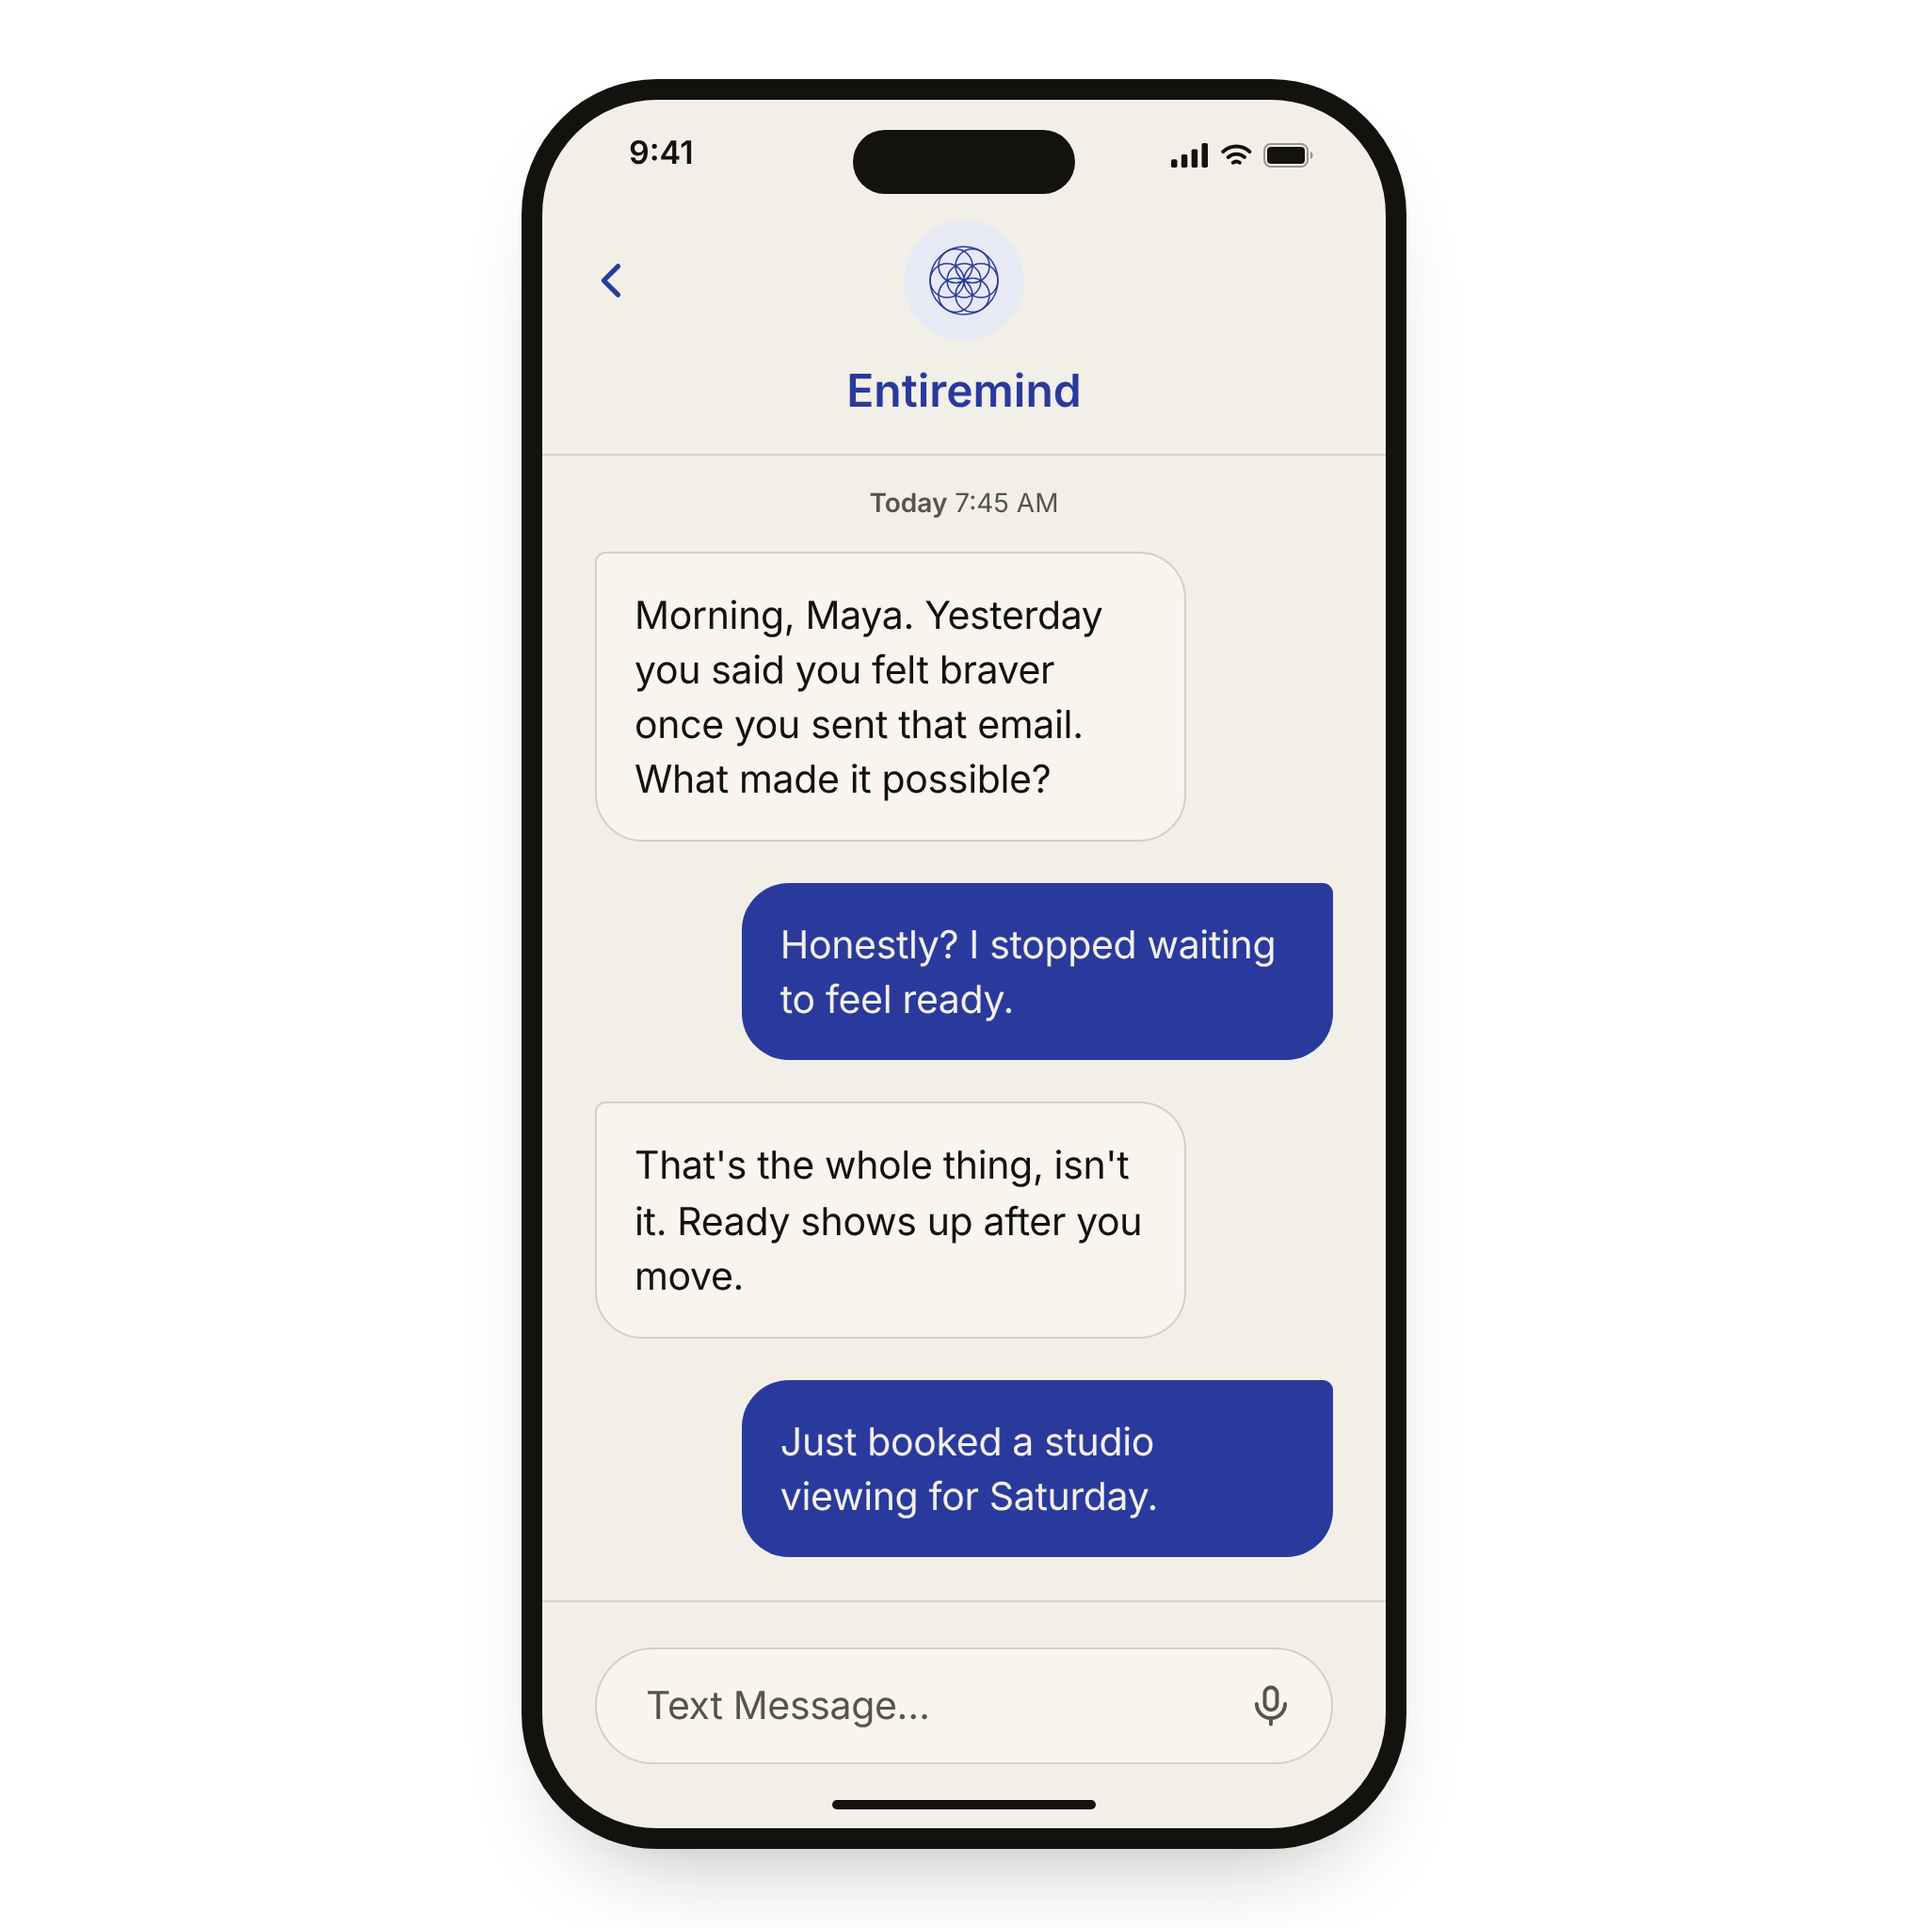
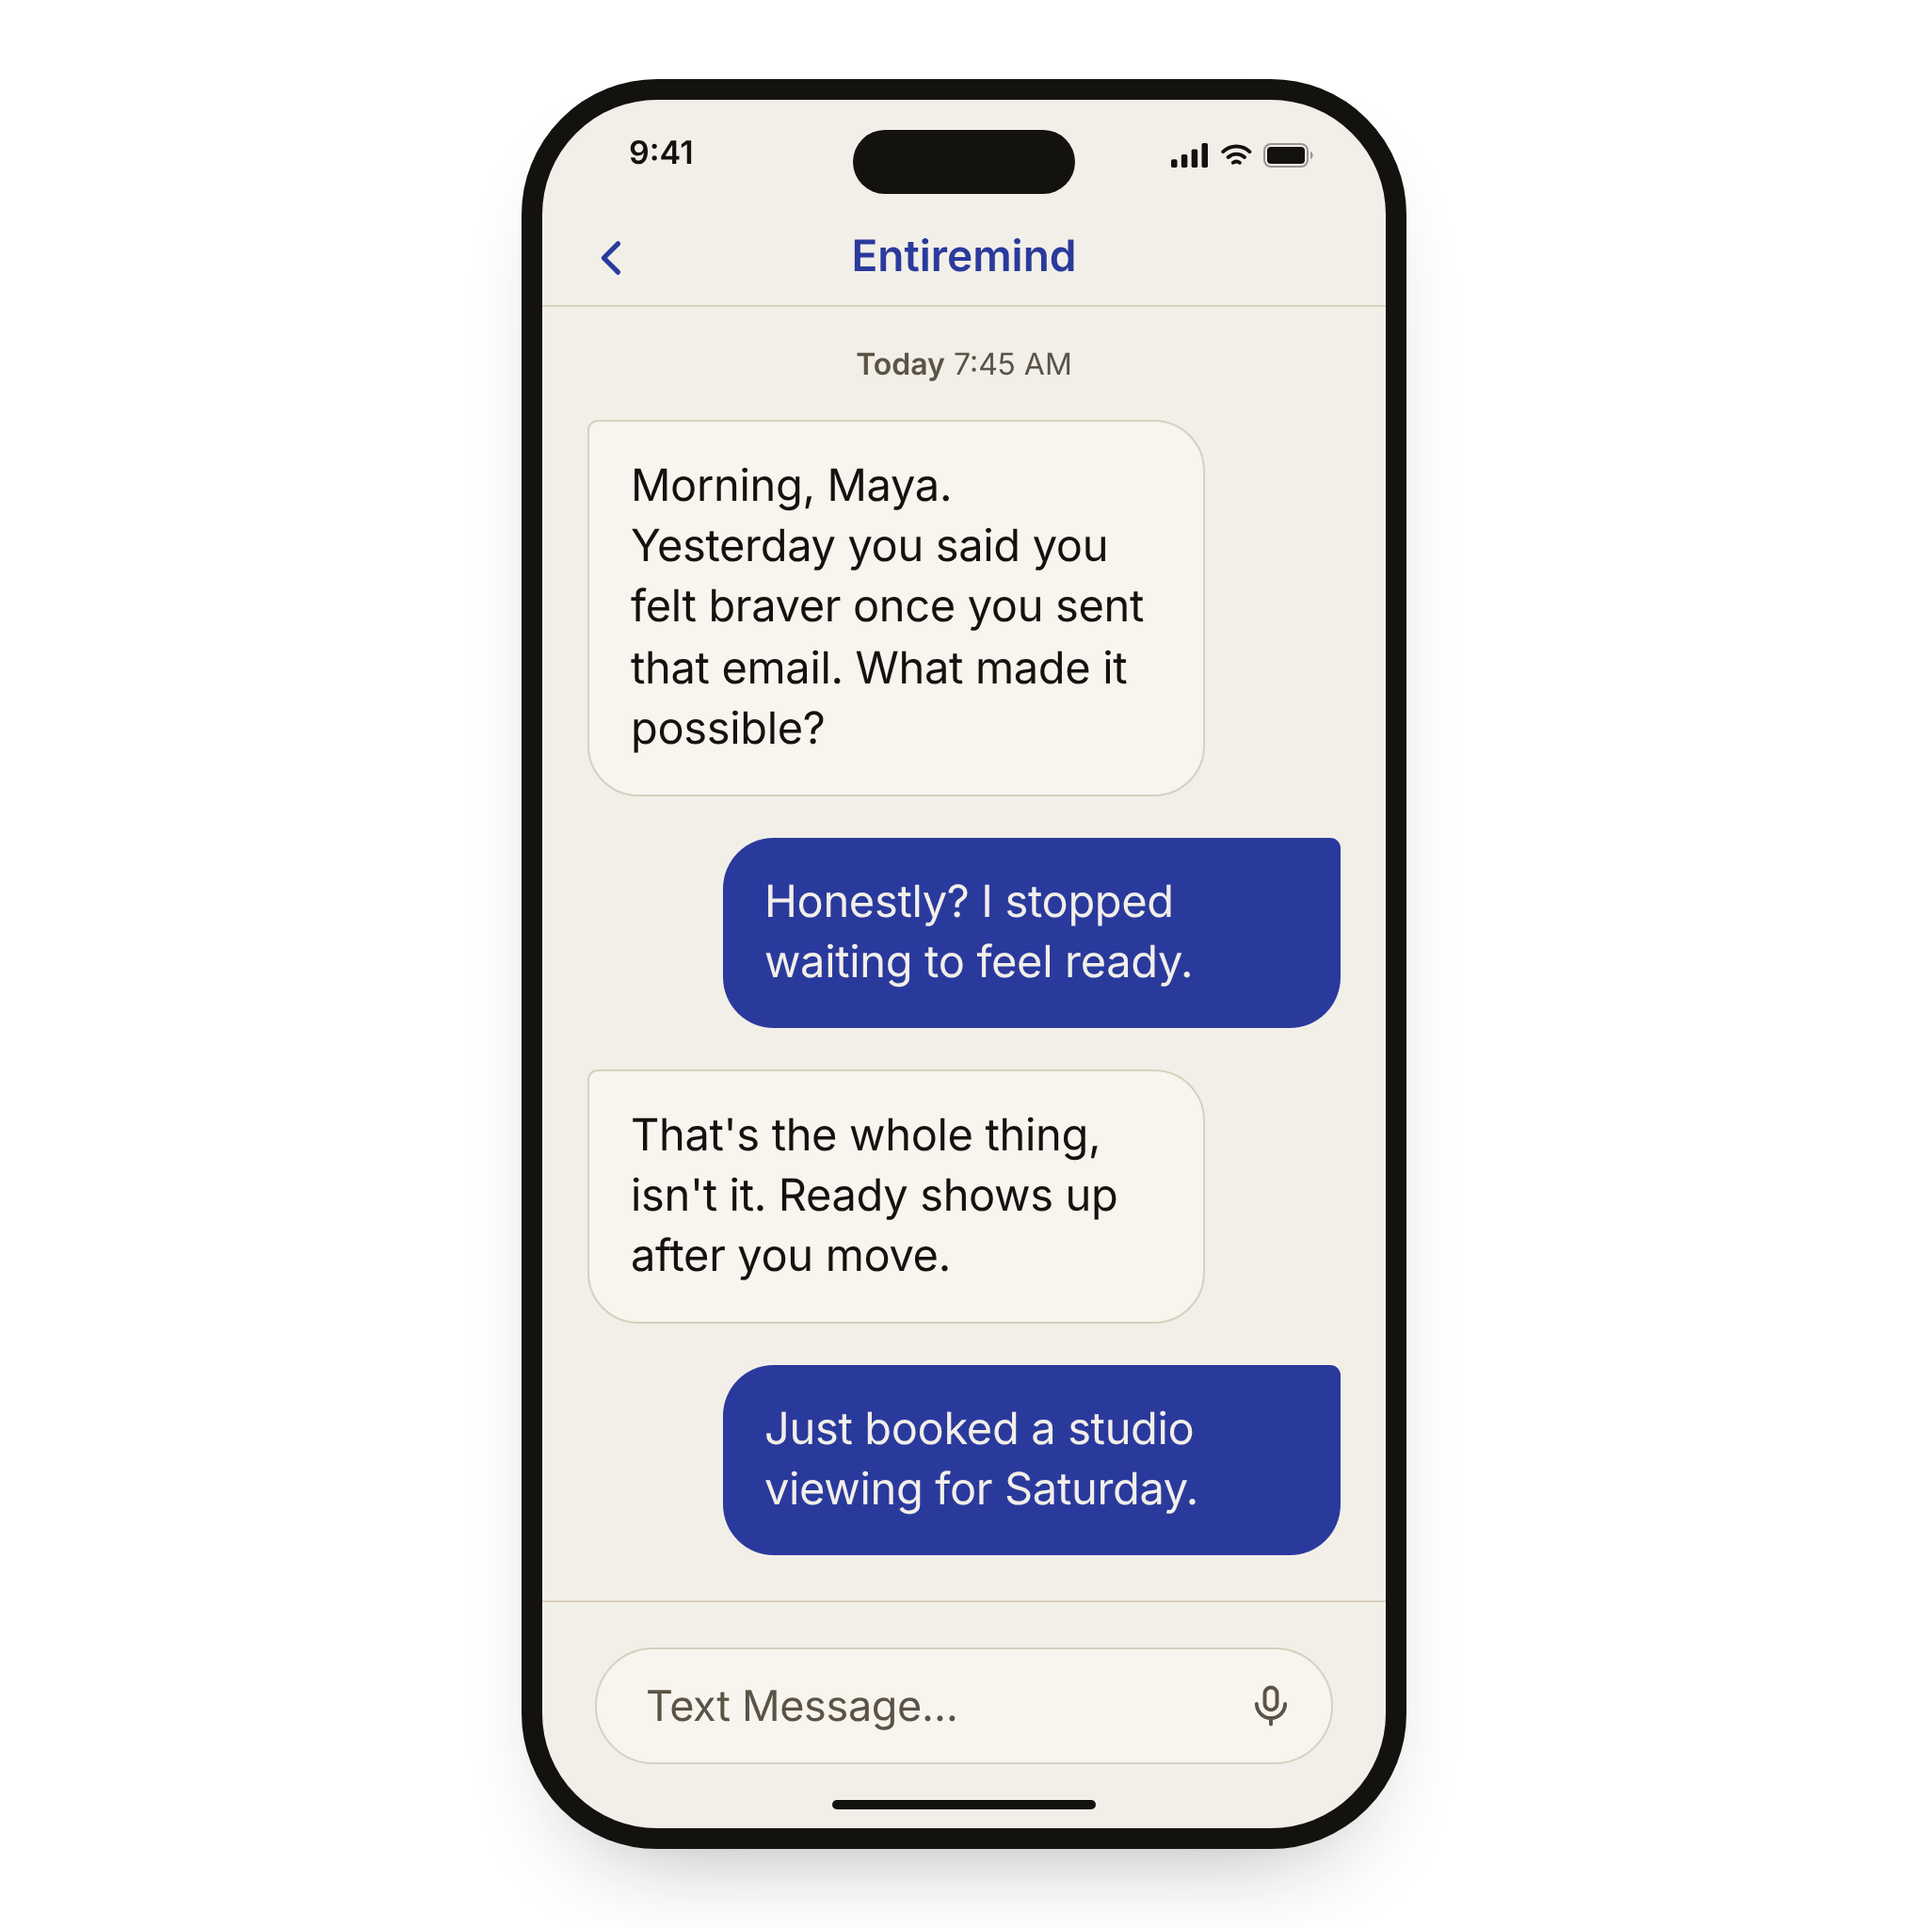
SmsPhone: compact one-line header, larger messages
Drops the Seed of Life avatar so the contact header is a single line
(back chevron and the name in cobalt). The freed height goes to the
conversation: bubbles 20.5u to 23.5u, the day label and composer text
up to match, and the last message now ends an even 24u above the
composer. The scatter tag moves up to clear the back chevron. Scenes
are re-rendered.

Claude-Session: https://claude.ai/code/session_01XFR3k6ZrktobPacJJyLqAi

diff --git a/src/components/landing/sms-phone.module.css b/src/components/landing/sms-phone.module.css
@@ -84,43 +84,29 @@
 
 /* ---- Contact header -------------------------------------------------- */
 
+/* One compact line, so the screen goes to the conversation. */
 .header {
   position: relative;
   flex: none;
   display: flex;
-  flex-direction: column;
   align-items: center;
-  padding: calc(var(--u) * 6) 0 calc(var(--u) * 14);
+  justify-content: center;
+  height: calc(var(--u) * 52);
   border-bottom: calc(var(--u) * 1) solid var(--color-rule);
 }
 
 .back {
   position: absolute;
   left: calc(var(--u) * 24);
-  top: calc(var(--u) * 25);
+  top: 50%;
   width: calc(var(--u) * 26);
   height: calc(var(--u) * 26);
+  margin-top: calc(var(--u) * -13);
   color: var(--color-cobalt);
-}
-
-.avatar {
-  width: calc(var(--u) * 64);
-  height: calc(var(--u) * 64);
-  border-radius: 50%;
-  background: var(--color-cobalt-wash);
-  color: var(--color-cobalt);
-  display: grid;
-  place-items: center;
-}
-
-.avatar svg {
-  width: calc(var(--u) * 48);
-  height: calc(var(--u) * 48);
 }
 
 .name {
-  margin-top: calc(var(--u) * 8);
-  font-size: calc(var(--u) * 24);
+  font-size: calc(var(--u) * 23);
   font-weight: 600;
   letter-spacing: 0;
   color: var(--color-cobalt);
@@ -134,14 +120,14 @@
   display: flex;
   flex-direction: column;
   justify-content: flex-start;
-  padding: calc(var(--u) * 14) calc(var(--u) * 28) 0;
+  padding: calc(var(--u) * 18) calc(var(--u) * 24) 0;
 }
 
 .day {
   align-self: center;
-  margin-bottom: calc(var(--u) * 14);
+  margin-bottom: calc(var(--u) * 16);
   color: var(--color-muted);
-  font-size: calc(var(--u) * 14);
+  font-size: calc(var(--u) * 16);
   letter-spacing: 0;
 }
 
@@ -150,12 +136,12 @@
 }
 
 .bubble {
-  max-width: 80%;
+  max-width: 82%;
   box-sizing: border-box;
-  padding: calc(var(--u) * 18) calc(var(--u) * 20);
-  border-radius: calc(var(--u) * 25);
-  font-size: calc(var(--u) * 20.5);
-  line-height: 1.42;
+  padding: calc(var(--u) * 18) calc(var(--u) * 22);
+  border-radius: calc(var(--u) * 27);
+  font-size: calc(var(--u) * 23.5);
+  line-height: 1.38;
 }
 
 .in {
@@ -206,13 +192,13 @@
   min-width: 0;
   overflow: hidden;
   white-space: nowrap;
-  font-size: calc(var(--u) * 20.5);
+  font-size: calc(var(--u) * 22.5);
 }
 
 .placeholder {
   flex: 1;
   color: var(--color-muted);
-  font-size: calc(var(--u) * 20.5);
+  font-size: calc(var(--u) * 22.5);
 }
 
 .caret {

diff --git a/src/components/landing/sms-phone.tsx b/src/components/landing/sms-phone.tsx
@@ -1,5 +1,4 @@
 import type { HeroPhoneContent } from "./hero-phone";
-import { SeedOfLifeMark } from "./hero-phone-content";
 import styles from "./sms-phone.module.css";
 
 /**
@@ -9,8 +8,9 @@ import styles from "./sms-phone.module.css";
  * It keeps PhoneMockup's look: ink device, linen screen, surface bubbles with
  * a hairline for Entiremind, cobalt for the person. What it fixes:
  *
- * - A real contact header: the Seed of Life, drawn in code, in a round
- *   avatar above the name. Never a raster logo that can garble.
+ * - A compact contact header: back chevron and the name in cobalt, set as
+ *   live text, so there is no raster logo to garble and the screen goes to
+ *   the conversation.
  * - One "Today 7:45 AM" (the daily send time) instead of a timestamp under
  *   every bubble, which Messages doesn't do.
  * - The conversation ends on the person's own reply rather than on a typing
@@ -91,9 +91,6 @@ export function SmsPhone({
             >
               <path d="M15 5l-7 7 7 7" />
             </svg>
-            <div className={styles.avatar} aria-hidden="true">
-              {SeedOfLifeMark}
-            </div>
             <div className={styles.name}>{content.name}</div>
           </div>
 

diff --git a/src/components/landing/hero-scene.tsx b/src/components/landing/hero-scene.tsx
@@ -263,7 +263,7 @@ function ScatterLayout() {
   return (
     <>
       <Tag
-        box={at(262, 140, 350, undefined, -8)}
+        box={at(262, 124, 350, undefined, -8)}
         tone="cobalt"
         eyebrow="My intention"
         title="Open my studio by spring"
